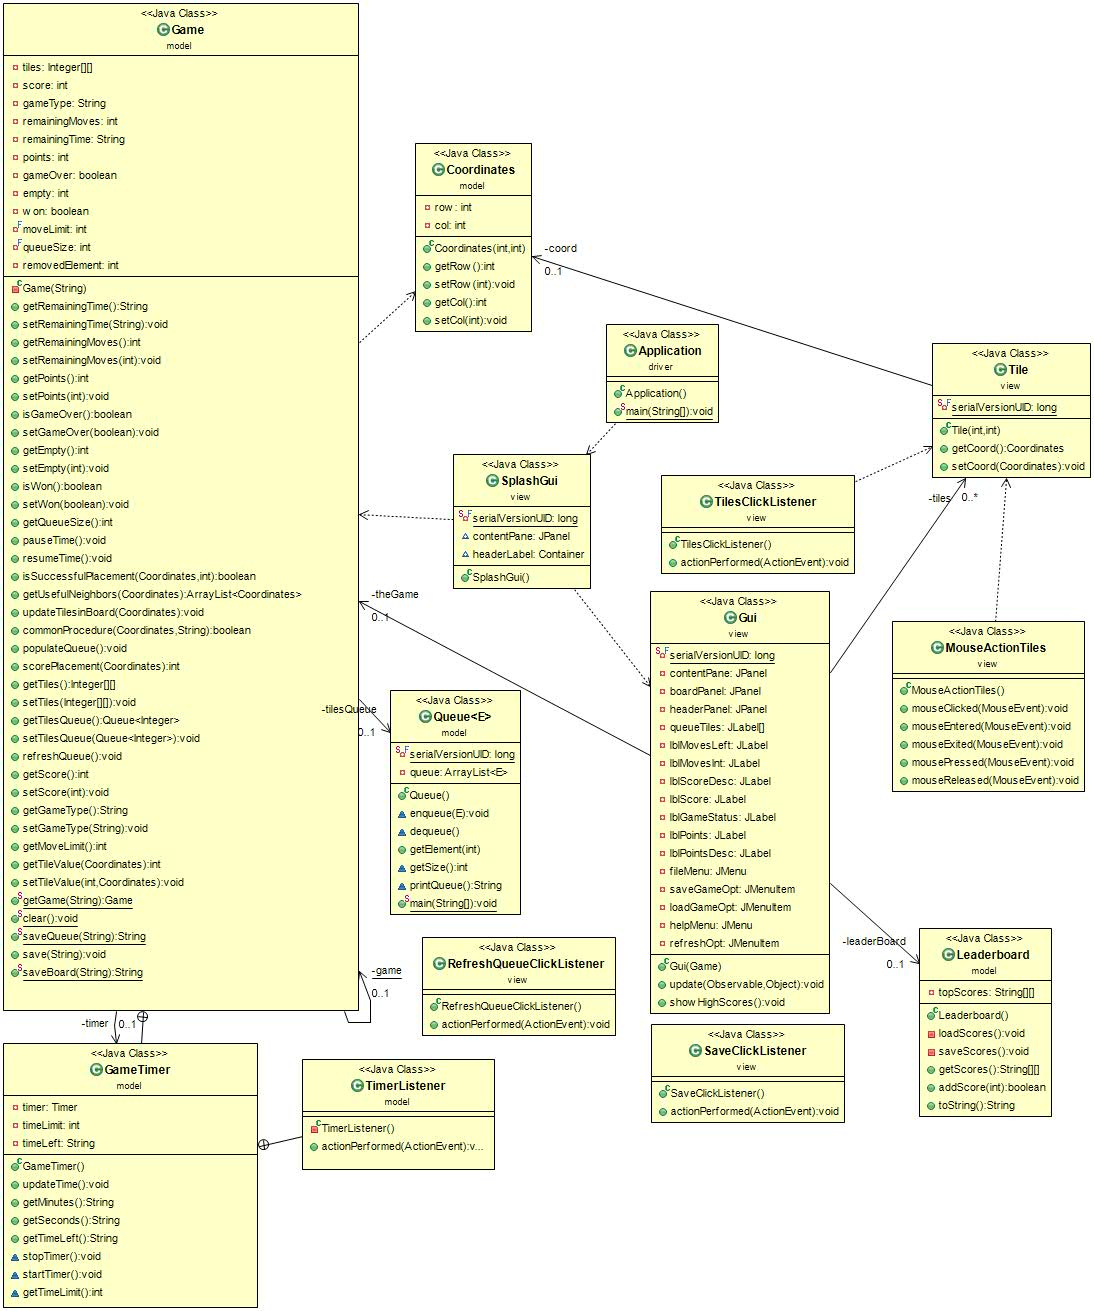
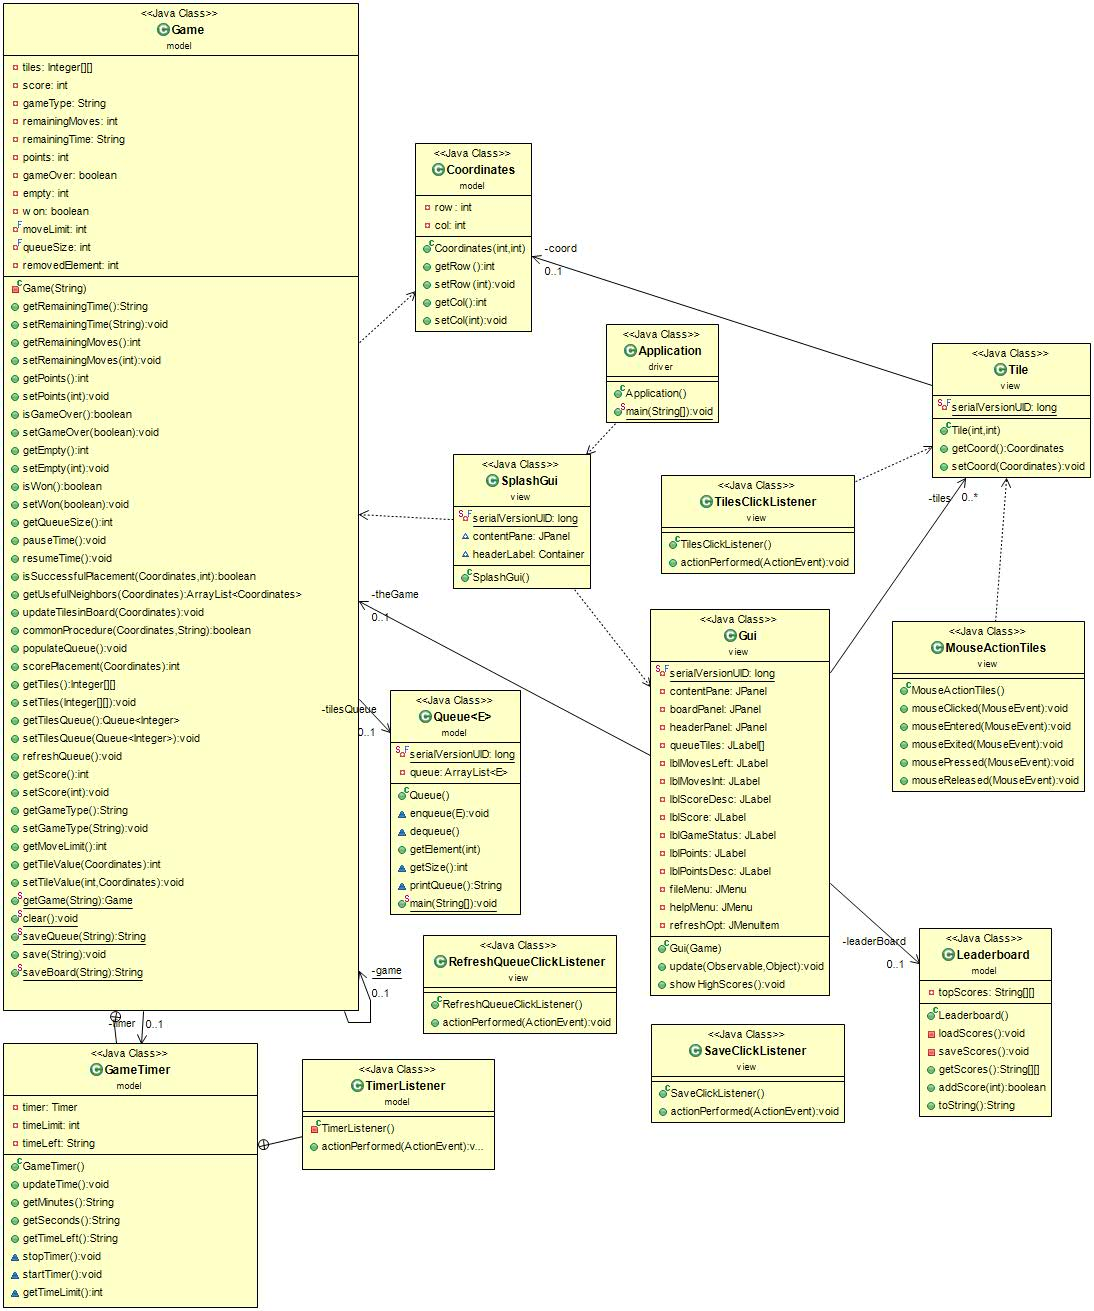
Commented save/load code

Changed region(s): [[0.5905, 0.4272, 0.777, 0.7933], [0.3729, 0.7018, 0.5594, 0.7933], [0.0932, 0.7628, 0.1554, 0.7933]]

diff --git a/sumFun/src/view/Gui.java b/sumFun/src/view/Gui.java
@@ -47,8 +47,8 @@ public class Gui extends JFrame implements Observer{
 	private JLabel lblPoints;
 	private JLabel lblPointsDesc;
 	private JMenu fileMenu;
-	private JMenuItem saveGameOpt;
-	private JMenuItem loadGameOpt;
+	//private JMenuItem saveGameOpt;
+	//private JMenuItem loadGameOpt;
 	private JMenu helpMenu;
 	private JMenuItem refreshOpt;
 	
@@ -66,10 +66,10 @@ public class Gui extends JFrame implements Observer{
 		fileMenu.setHorizontalAlignment(SwingConstants.CENTER);
 		menuBar.add(fileMenu);
 		
-		saveGameOpt = new JMenuItem("Save Game");
+		/*saveGameOpt = new JMenuItem("Save Game");
 		saveGameOpt.setHorizontalAlignment(SwingConstants.CENTER);
 		saveGameOpt.setFont(new Font("Tahoma", Font.PLAIN, 14));
-		saveGameOpt.addActionListener(new SaveClickListener());
+		saveGameOpt.addActionListener(new SaveClickListener());*/
 		
 		JMenuItem newGameOpt = new JMenuItem("New Game");
 		newGameOpt.setFont(new Font("Tahoma", Font.PLAIN, 14));
@@ -91,12 +91,12 @@ public class Gui extends JFrame implements Observer{
 			
 		});
 		fileMenu.add(newGameOpt);
-		fileMenu.add(saveGameOpt);
+		//fileMenu.add(saveGameOpt);
 		
-		loadGameOpt = new JMenuItem("Load Game");
+		/*loadGameOpt = new JMenuItem("Load Game");
 		loadGameOpt.setHorizontalAlignment(SwingConstants.CENTER);
 		loadGameOpt.setFont(new Font("Tahoma", Font.PLAIN, 14));
-		fileMenu.add(loadGameOpt);
+		fileMenu.add(loadGameOpt);*/
 		
 		helpMenu = new JMenu("Help");
 		helpMenu.setFont(new Font("Tahoma", Font.BOLD, 14));
@@ -385,7 +385,7 @@ public void update(Observable arg0, Object arg1) {
 		public void actionPerformed(ActionEvent arg0) {
 			
 			String fileName=JOptionPane.showInputDialog("Enter the File name without any extension");
-			theGame.save(fileName);
+			//theGame.save(fileName);
 		}
 		
 	}

diff --git a/sumFun/src/model/Game.java b/sumFun/src/model/Game.java
@@ -403,7 +403,7 @@ public class Game extends Observable{
 	public static void clear(){
 		game=null;
 	}
-	
+	/*
 	public static String saveQueue(String fileName){
 
 		String retFilePath="";
@@ -549,7 +549,7 @@ public class Game extends Observable{
 
 		return retFilePath;
 	}
-	
+	*/
 	private class GameTimer {
 		private Timer timer;
 		private int timeLimit;
